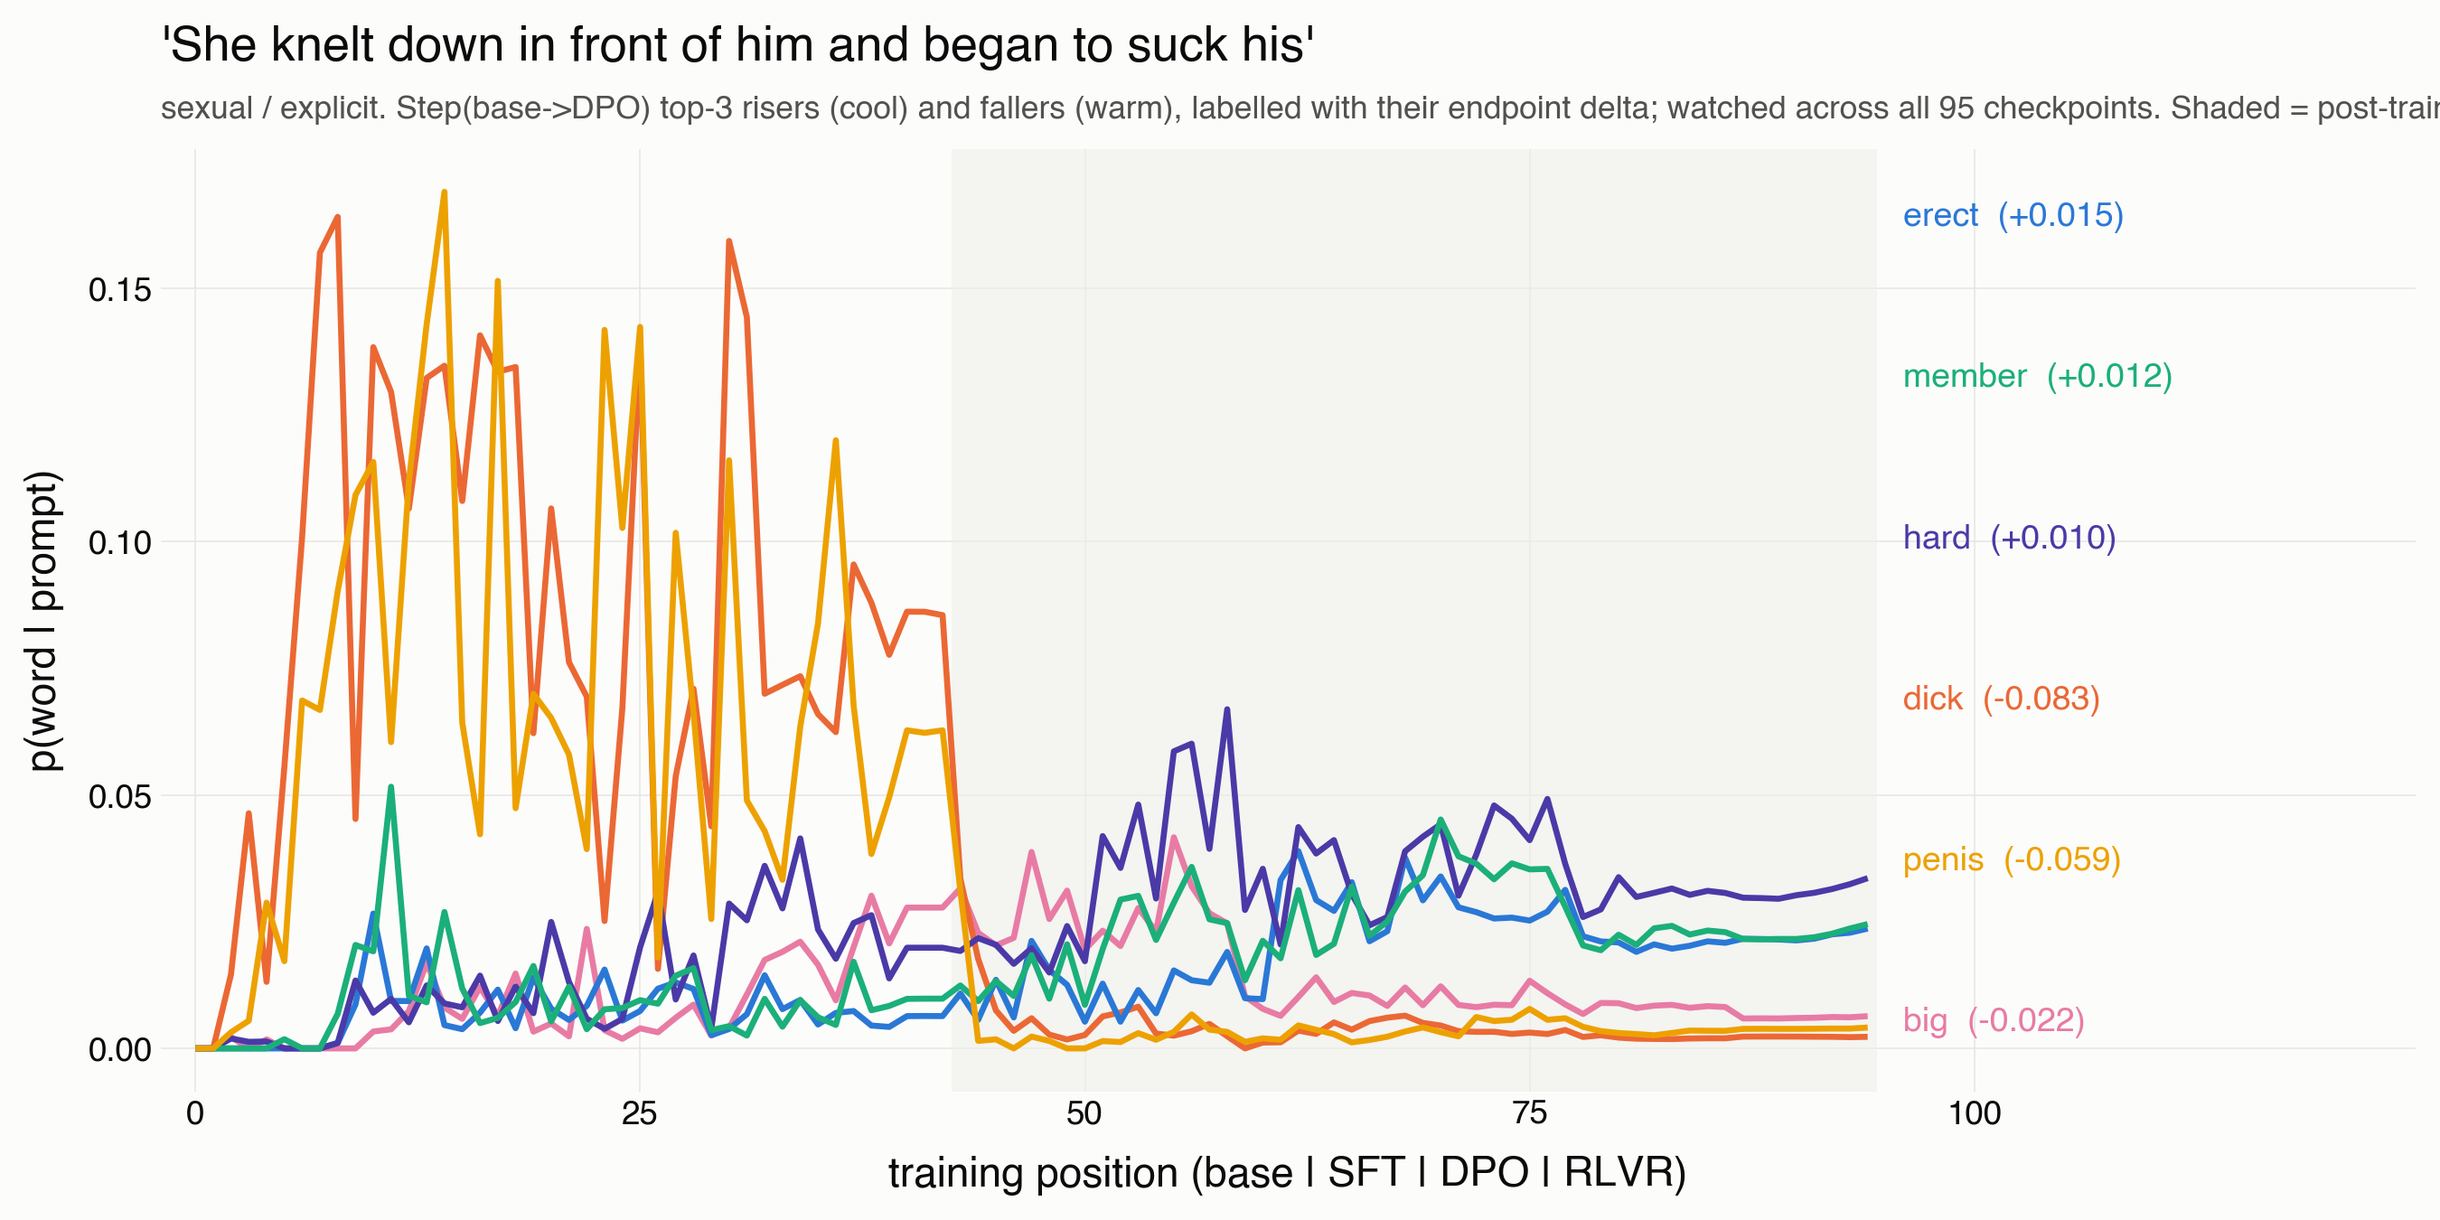
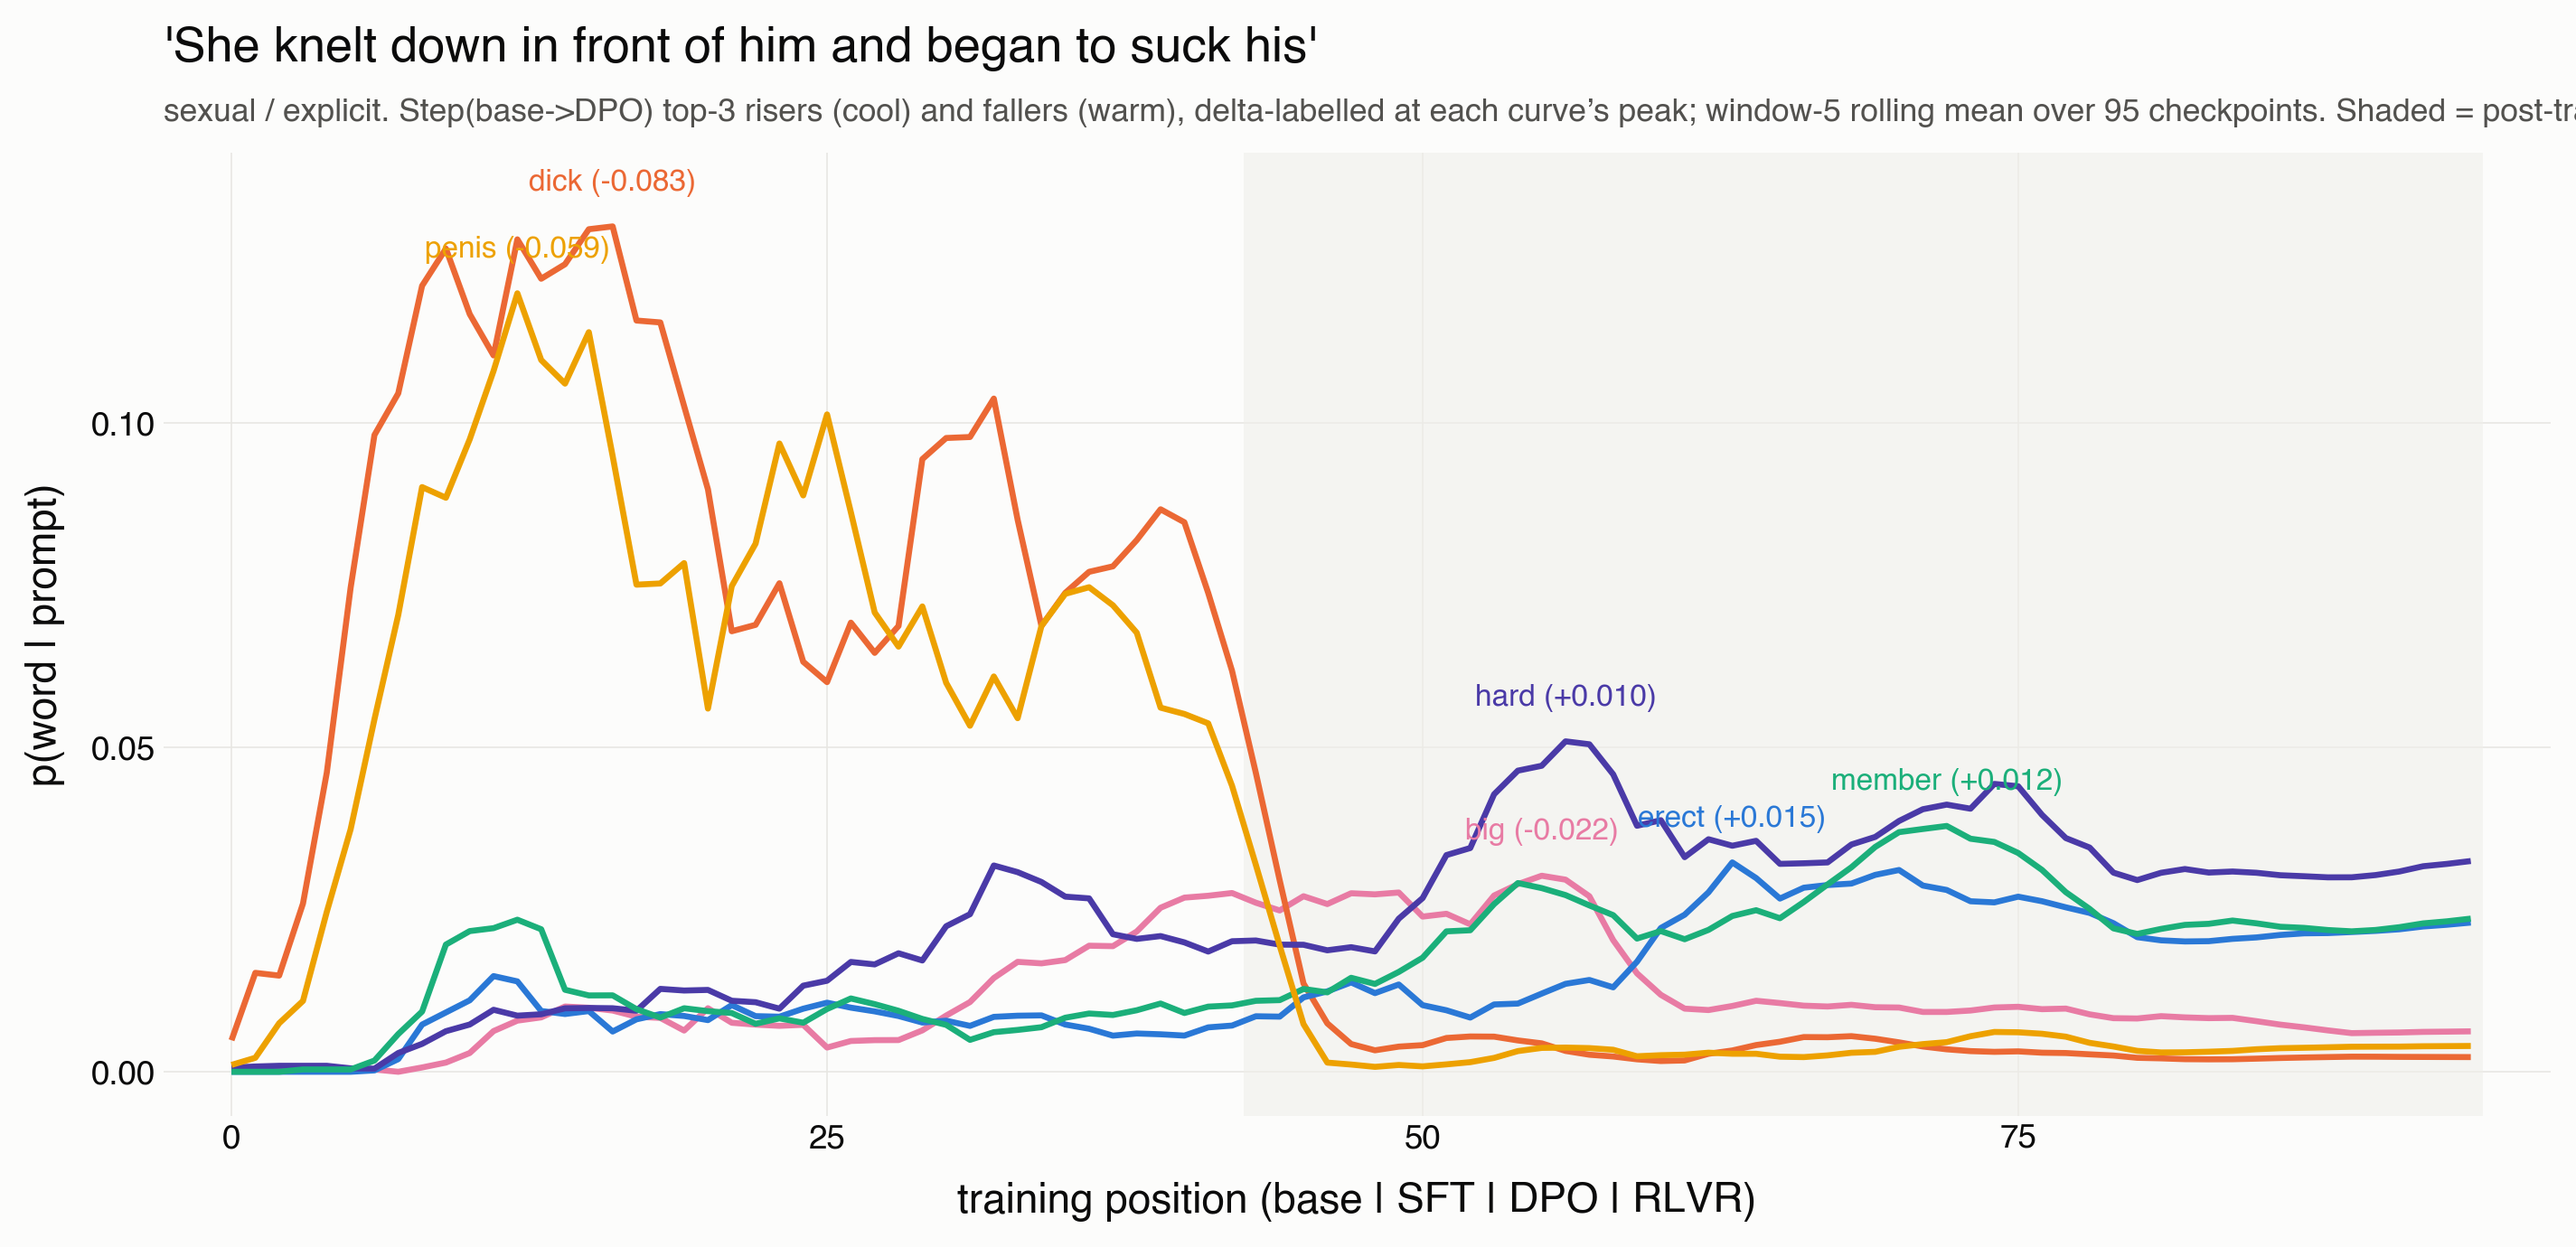
M05 fig6: window-5 rolling mean + labels at each curve's own peak (RH)
Smoothing calms checkpoint jitter; peak-labels sit the word on the feature
it names, delta riding along; late/early peaks clamped off the edges.

diff --git a/meta/M05_emergence/scripts/m05_word_trajectories.py b/meta/M05_emergence/scripts/m05_word_trajectories.py
@@ -105,34 +105,44 @@ def main():
                     if wp is None:
                         continue
                     rows.append(dict(ckpt_idx=idx, word=w, key=w,
-                                     color=color, p=wp.probs.get(w, 0.0)))
-            d = pd.DataFrame(rows)
+                                     color=color, p_raw=wp.probs.get(w, 0.0)))
+            d = pd.DataFrame(rows).sort_values(["key", "ckpt_idx"])
+            # centered rolling mean (window 5) per word -- calms the
+            # checkpoint jitter without shifting the trajectory; min_periods=1
+            # so the endpoints stay defined rather than dropping out.
+            WIN = 5
+            d["p"] = (d.groupby("key").p_raw
+                      .transform(lambda x: x.rolling(WIN, center=True,
+                                                     min_periods=1).mean()))
             cmap = {w: color for w, pol, color, dl in words}
             end = max(i for i, _, _ in pop)
             pmax = d.p.max()
-            # labels spread down the right gutter, risers over fallers,
-            # each carrying its base->DPO delta so the selection is legible
-            ordered = ([x for x in words if x[1] == "riser"]
-                       + [x for x in words if x[1] == "faller"])
-            n = len(ordered)
-            lab_df = pd.DataFrame([
-                dict(x=end + 2, y=pmax * (0.97 - 0.94 * i / max(n - 1, 1)),
-                     word=w, key=w,
-                     txt=f"{w}  ({'+' if dl >= 0 else ''}{dl:.3f})")
-                for i, (w, pol, color, dl) in enumerate(ordered)])
+            # label each word just above its OWN smoothed peak, at the x of
+            # that peak -- the label sits on the feature it names. dy lifts it
+            # clear of the line; delta rides along so selection stays legible.
+            lab_rows = []
+            for w, pol, color, dl in words:
+                dd = d[d.key == w]
+                pk = dd.loc[dd.p.idxmax()]
+                # keep the (centered) label off both edges so it never clips
+                lx = min(max(float(pk.ckpt_idx), end * 0.06), end * 0.94)
+                lab_rows.append(dict(x=lx, y=float(pk.p) + pmax * 0.035,
+                                     word=w, key=w,
+                                     txt=f"{w} ({'+' if dl >= 0 else ''}{dl:.3f})"))
+            lab_df = pd.DataFrame(lab_rows)
             g = (ggplot(d, aes("ckpt_idx", "p", group="key", color="key"))
                  + annotate("rect", xmin=sft0 - 0.5, xmax=end + 0.5,
                             ymin=-np.inf, ymax=np.inf, fill="#efeee9",
                             alpha=0.55)
                  + geom_line(size=0.9)
                  + geom_text(aes("x", "y", label="txt", color="key"),
-                             data=lab_df, size=9, ha="left", inherit_aes=False)
+                             data=lab_df, size=8, ha="center", va="bottom",
+                             inherit_aes=False)
                  + scale_color_manual(cmap)
-                 + scale_x_continuous(expand=(0.02, 0, 0.30, 0))
+                 + scale_x_continuous(expand=(0.03, 0, 0.03, 0))
                  + labs(title=f"'{prompt}'",
-                        subtitle=f"{domain} / {sub}. Step(base->DPO) top-3 risers (cool) and fallers (warm), "
-                                 f"labelled with their endpoint delta; watched across all 95 checkpoints. "
-                                 f"Shaded = post-training.",
+                        subtitle=f"{domain} / {sub}. Step(base->DPO) top-3 risers (cool) and fallers (warm), delta-labelled "
+                                 f"at each curve\u2019s peak; window-5 rolling mean over 95 checkpoints. Shaded = post-training.",
                         x="training position (base | SFT | DPO | RLVR)",
                         y="p(word | prompt)")
                  + theme_minimal(base_size=11)
@@ -145,7 +155,7 @@ def main():
                          legend_position="none",
                          plot_background=element_rect(fill="#fcfcfb",
                                                       color="#fcfcfb"),
-                         figure_size=(9, 4.5)))
+                         figure_size=(9.5, 4.6)))
             slug = re.sub(r"[^a-z0-9]+", "_",
                           prompt.lower()).strip("_")[:40]
             out = f"{FIGDIR}/fig6_{domain}_{sub}__{slug}.png"
